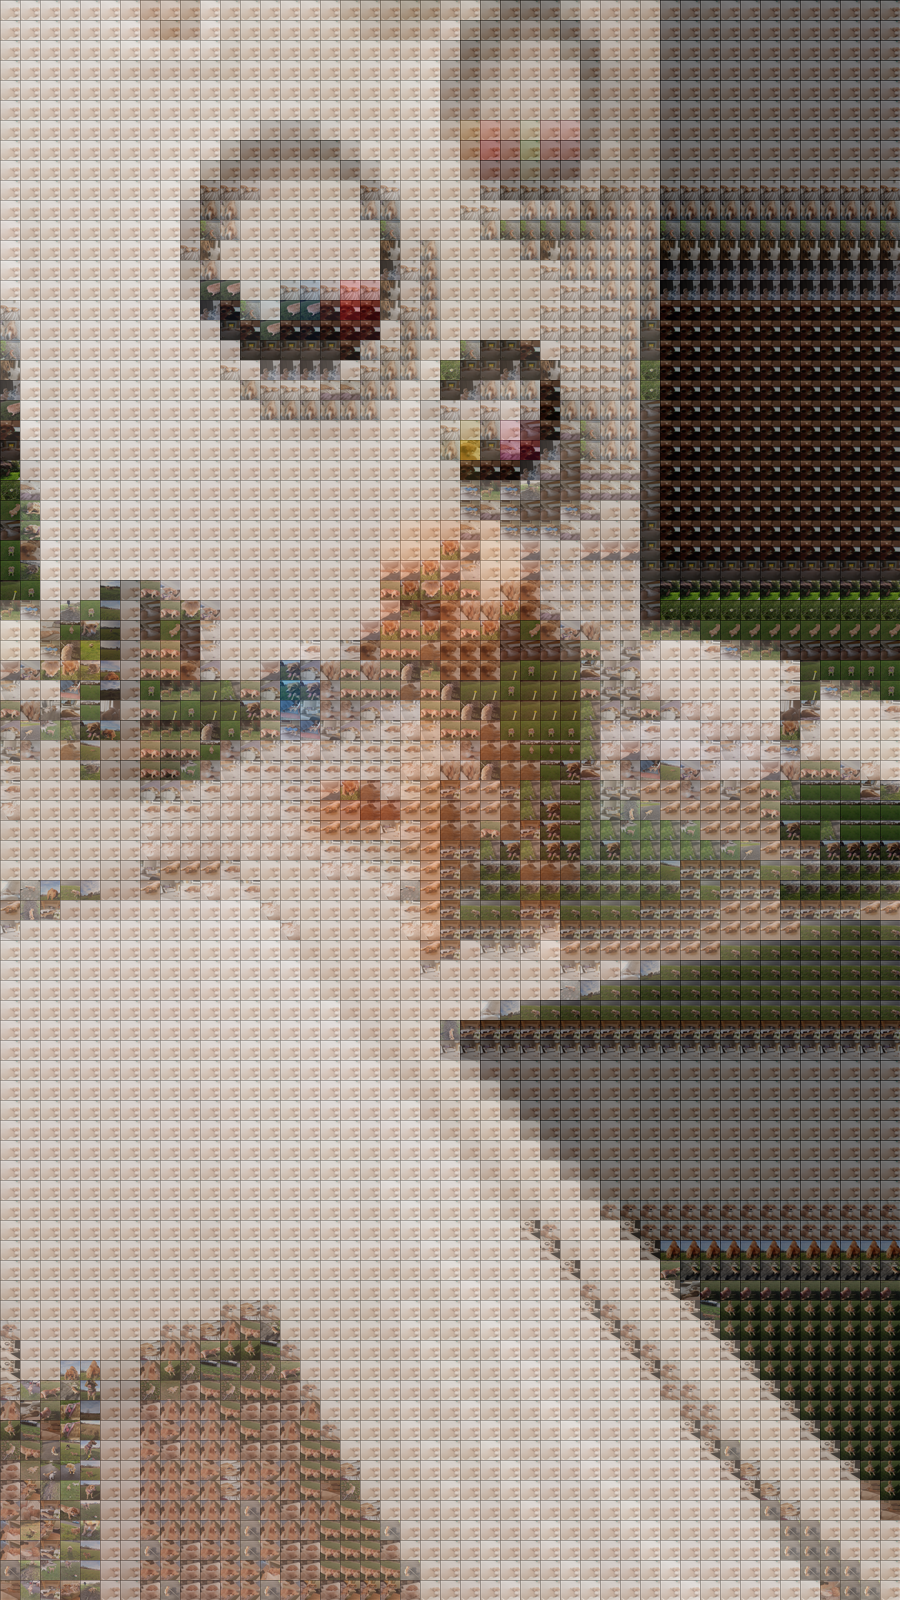
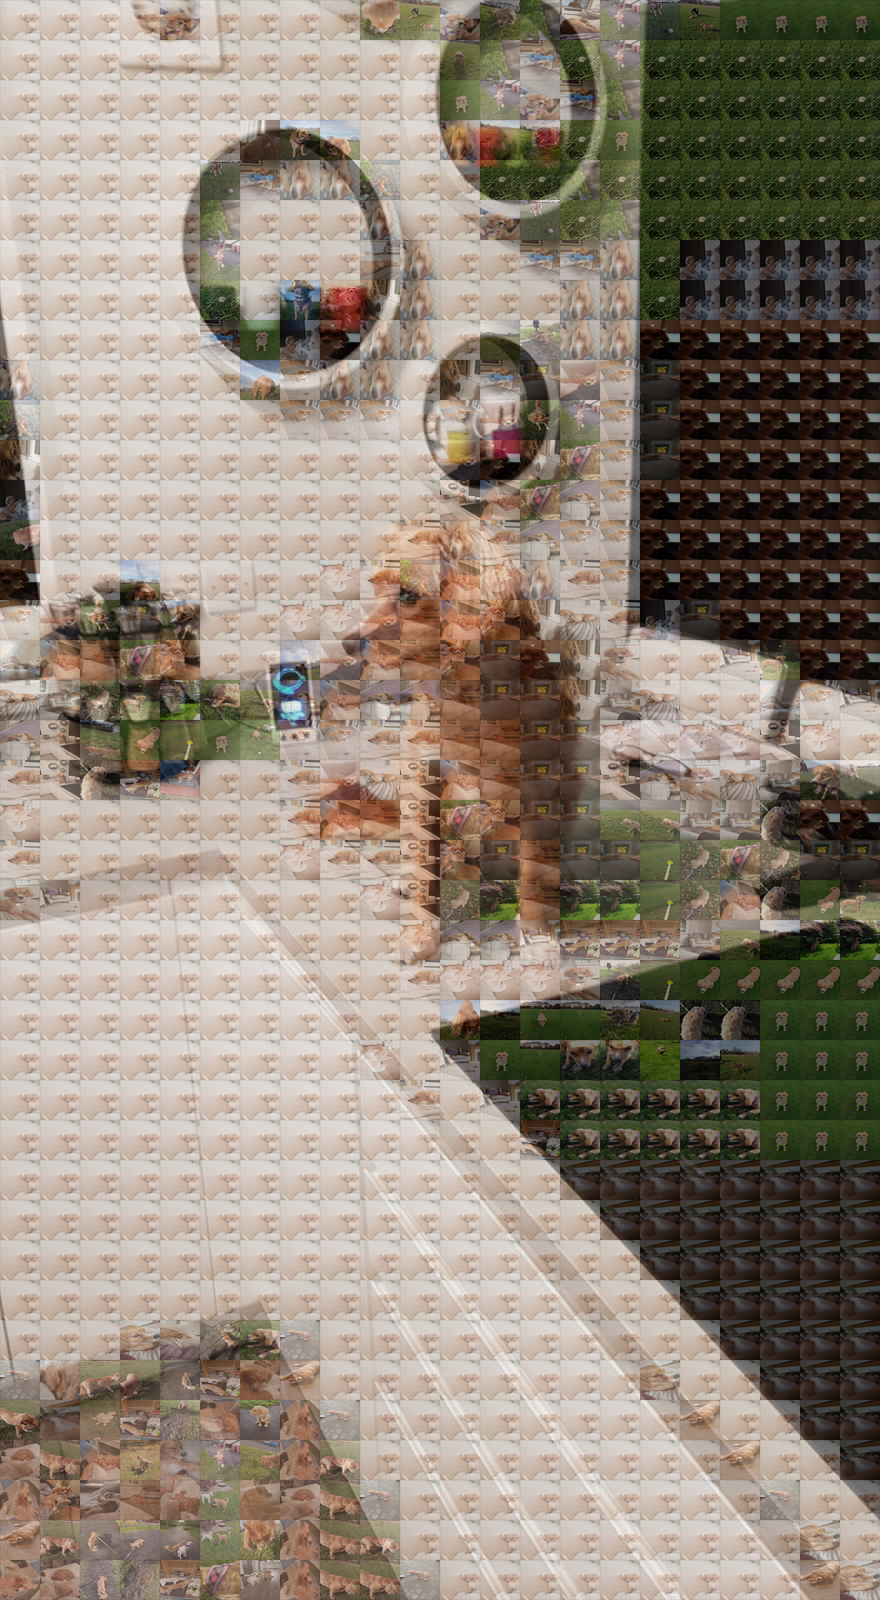
0021 Colour blended now appply transparent version of master over mosaic

diff --git a/Mosaic/Mosaic.WebUI/ImageMosaicService/ImageProcessing.cs b/Mosaic/Mosaic.WebUI/ImageMosaicService/ImageProcessing.cs
@@ -6,6 +6,7 @@ using System.Drawing;
 using System.IO;
 using System.Threading.Tasks;
 using Utility;
+using System.Drawing.Imaging;
 
 namespace ImageMosaicService
 {
@@ -240,18 +241,35 @@ namespace ImageMosaicService
                         infoTR = imageInfos[GetBestImageIndex(colorMap[x, y], x, y, random, Target.TR)];
                         infoBL = imageInfos[GetBestImageIndex(colorMap[x, y], x, y, random, Target.BL)];
                         infoBR = imageInfos[GetBestImageIndex(colorMap[x, y], x, y, random, Target.BR)];
-                        RenderTile(colorMap, colourBlended, g, infoTL, ref imageSq, x, y, Target.TL);
-                        RenderTile(colorMap, colourBlended, g, infoTR, ref imageSq, x, y, Target.TR);
-                        RenderTile(colorMap, colourBlended, g, infoBL, ref imageSq, x, y, Target.BL);
-                        RenderTile(colorMap, colourBlended, g, infoBR, ref imageSq, x, y, Target.BR);
+                        RenderTile(colorMap, g, infoTL, ref imageSq, x, y, Target.TL);
+                        RenderTile(colorMap, g, infoTR, ref imageSq, x, y, Target.TR);
+                        RenderTile(colorMap, g, infoBL, ref imageSq, x, y, Target.BL);
+                        RenderTile(colorMap, g, infoBR, ref imageSq, x, y, Target.BR);
                     }
                     else
                     {
-                        RenderTile(colorMap, colourBlended, g, info[x, y], ref imageSq, x, y, Target.Whole);
+                        RenderTile(colorMap, g, info[x, y], ref imageSq, x, y, Target.Whole);
                     }
                 }
             }
 
+            if (colourBlended)
+            {
+                var cm = new ColorMatrix();
+                cm.Matrix33 = 0.5f;
+
+                var ia = new ImageAttributes();
+                ia.SetColorMatrix(cm);
+
+                g.DrawImage(img,
+                    // target
+                    new Rectangle(0, 0, newImg.Width, newImg.Height),
+                    // source
+                    0, 0, img.Width, img.Height,
+                    GraphicsUnit.Pixel,
+                    ia);
+            }
+            
             // Dispose of all resized bitmaps used for rendering
             foreach (var bitmap in resizeFiles.Select(x => x.Item2))
             {
@@ -266,7 +284,7 @@ namespace ImageMosaicService
         }
 
         // Pass target into method
-        private void RenderTile(MosaicTileColour[,] colorMap, bool colourBlended, Graphics g, ImageInfo info, ref List<MosaicTile> imageSq, 
+        private void RenderTile(MosaicTileColour[,] colorMap, Graphics g, ImageInfo info, ref List<MosaicTile> imageSq, 
                                 int x, int y, Target target)
         {
             Rectangle destRect, srcRect;
@@ -282,13 +300,7 @@ namespace ImageMosaicService
             destRect = CreateQuadrantRectangle(x * tileSize.Width, y * tileSize.Height, tileSize.Width, tileSize.Height, target);
             srcRect = new Rectangle(0, 0, source.Width, source.Height);
 
-            g.DrawImage(source, destRect, srcRect, GraphicsUnit.Pixel);
-            if (colourBlended)
-            {
-                var tileAvgColour = colorMap[x, y].AverageWhole;
-                var colourBlendedValue = Color.FromArgb(128, tileAvgColour.R, tileAvgColour.G, tileAvgColour.B);
-                g.FillRectangle(new SolidBrush(colourBlendedValue), destRect.X, destRect.Y, destRect.Width, destRect.Height);
-            }            
+            g.DrawImage(source, destRect, srcRect, GraphicsUnit.Pixel);         
         }
 
         // Passes the colour value for the current tile being analysed
